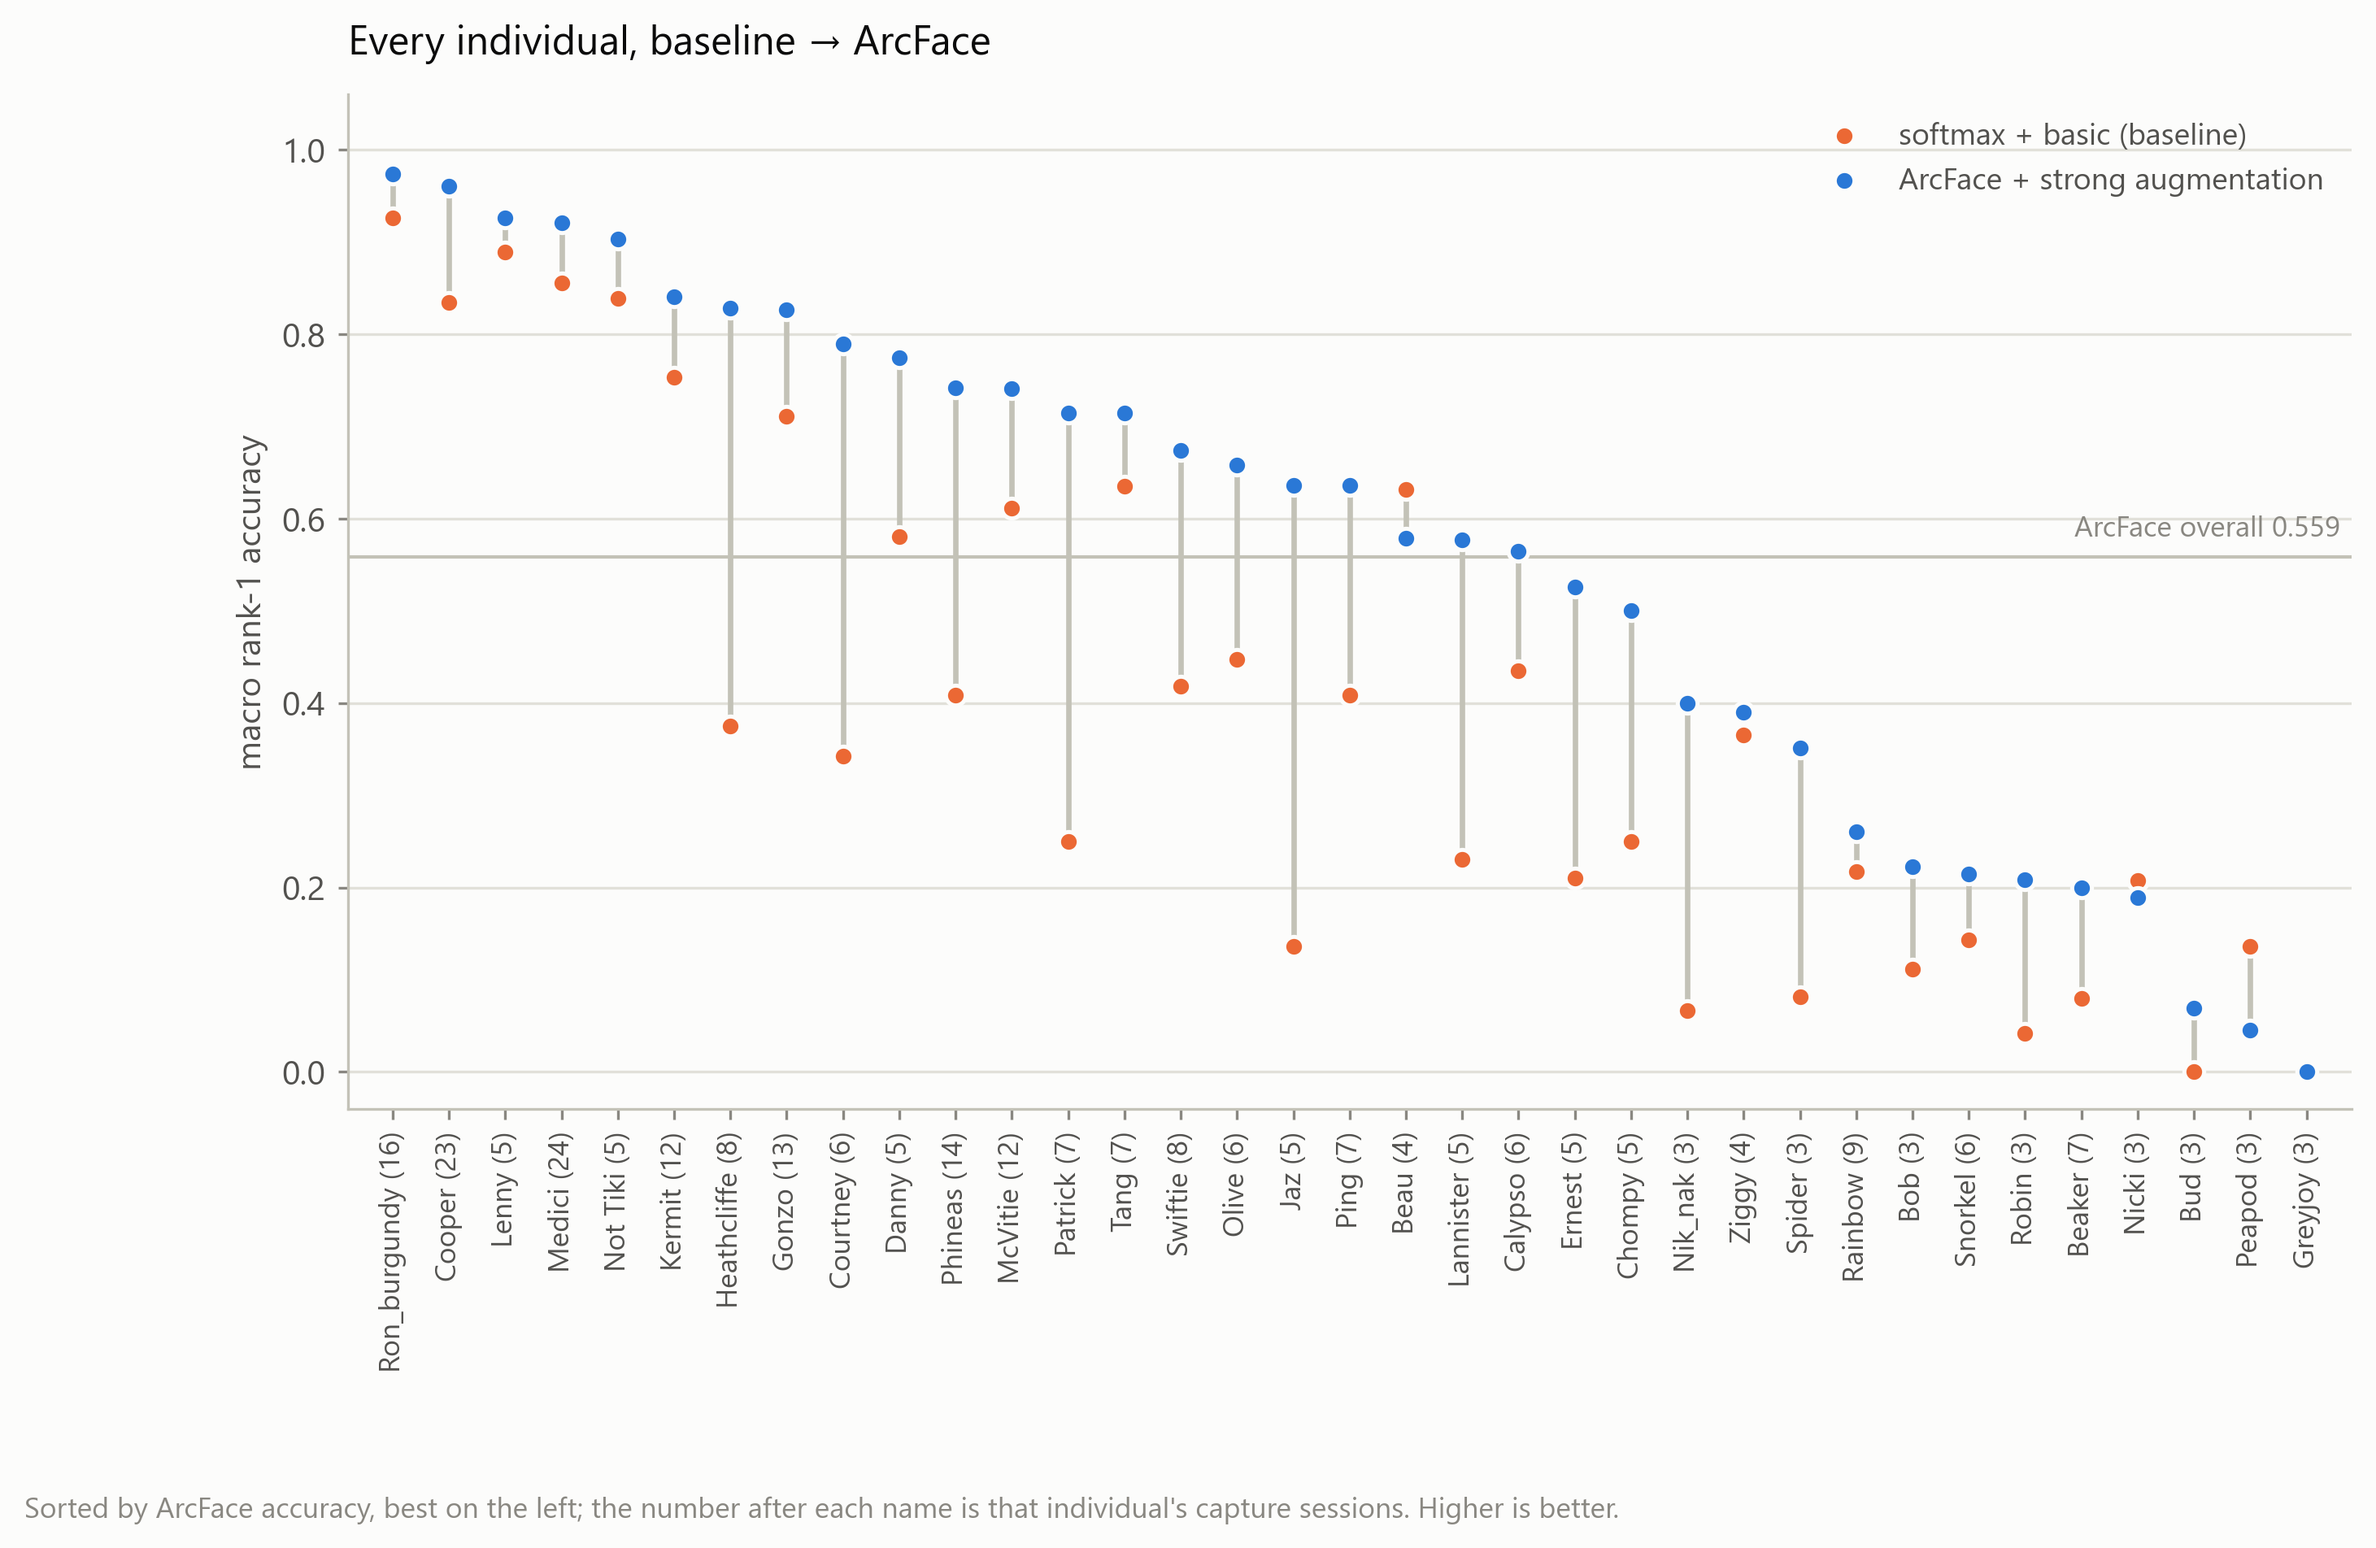
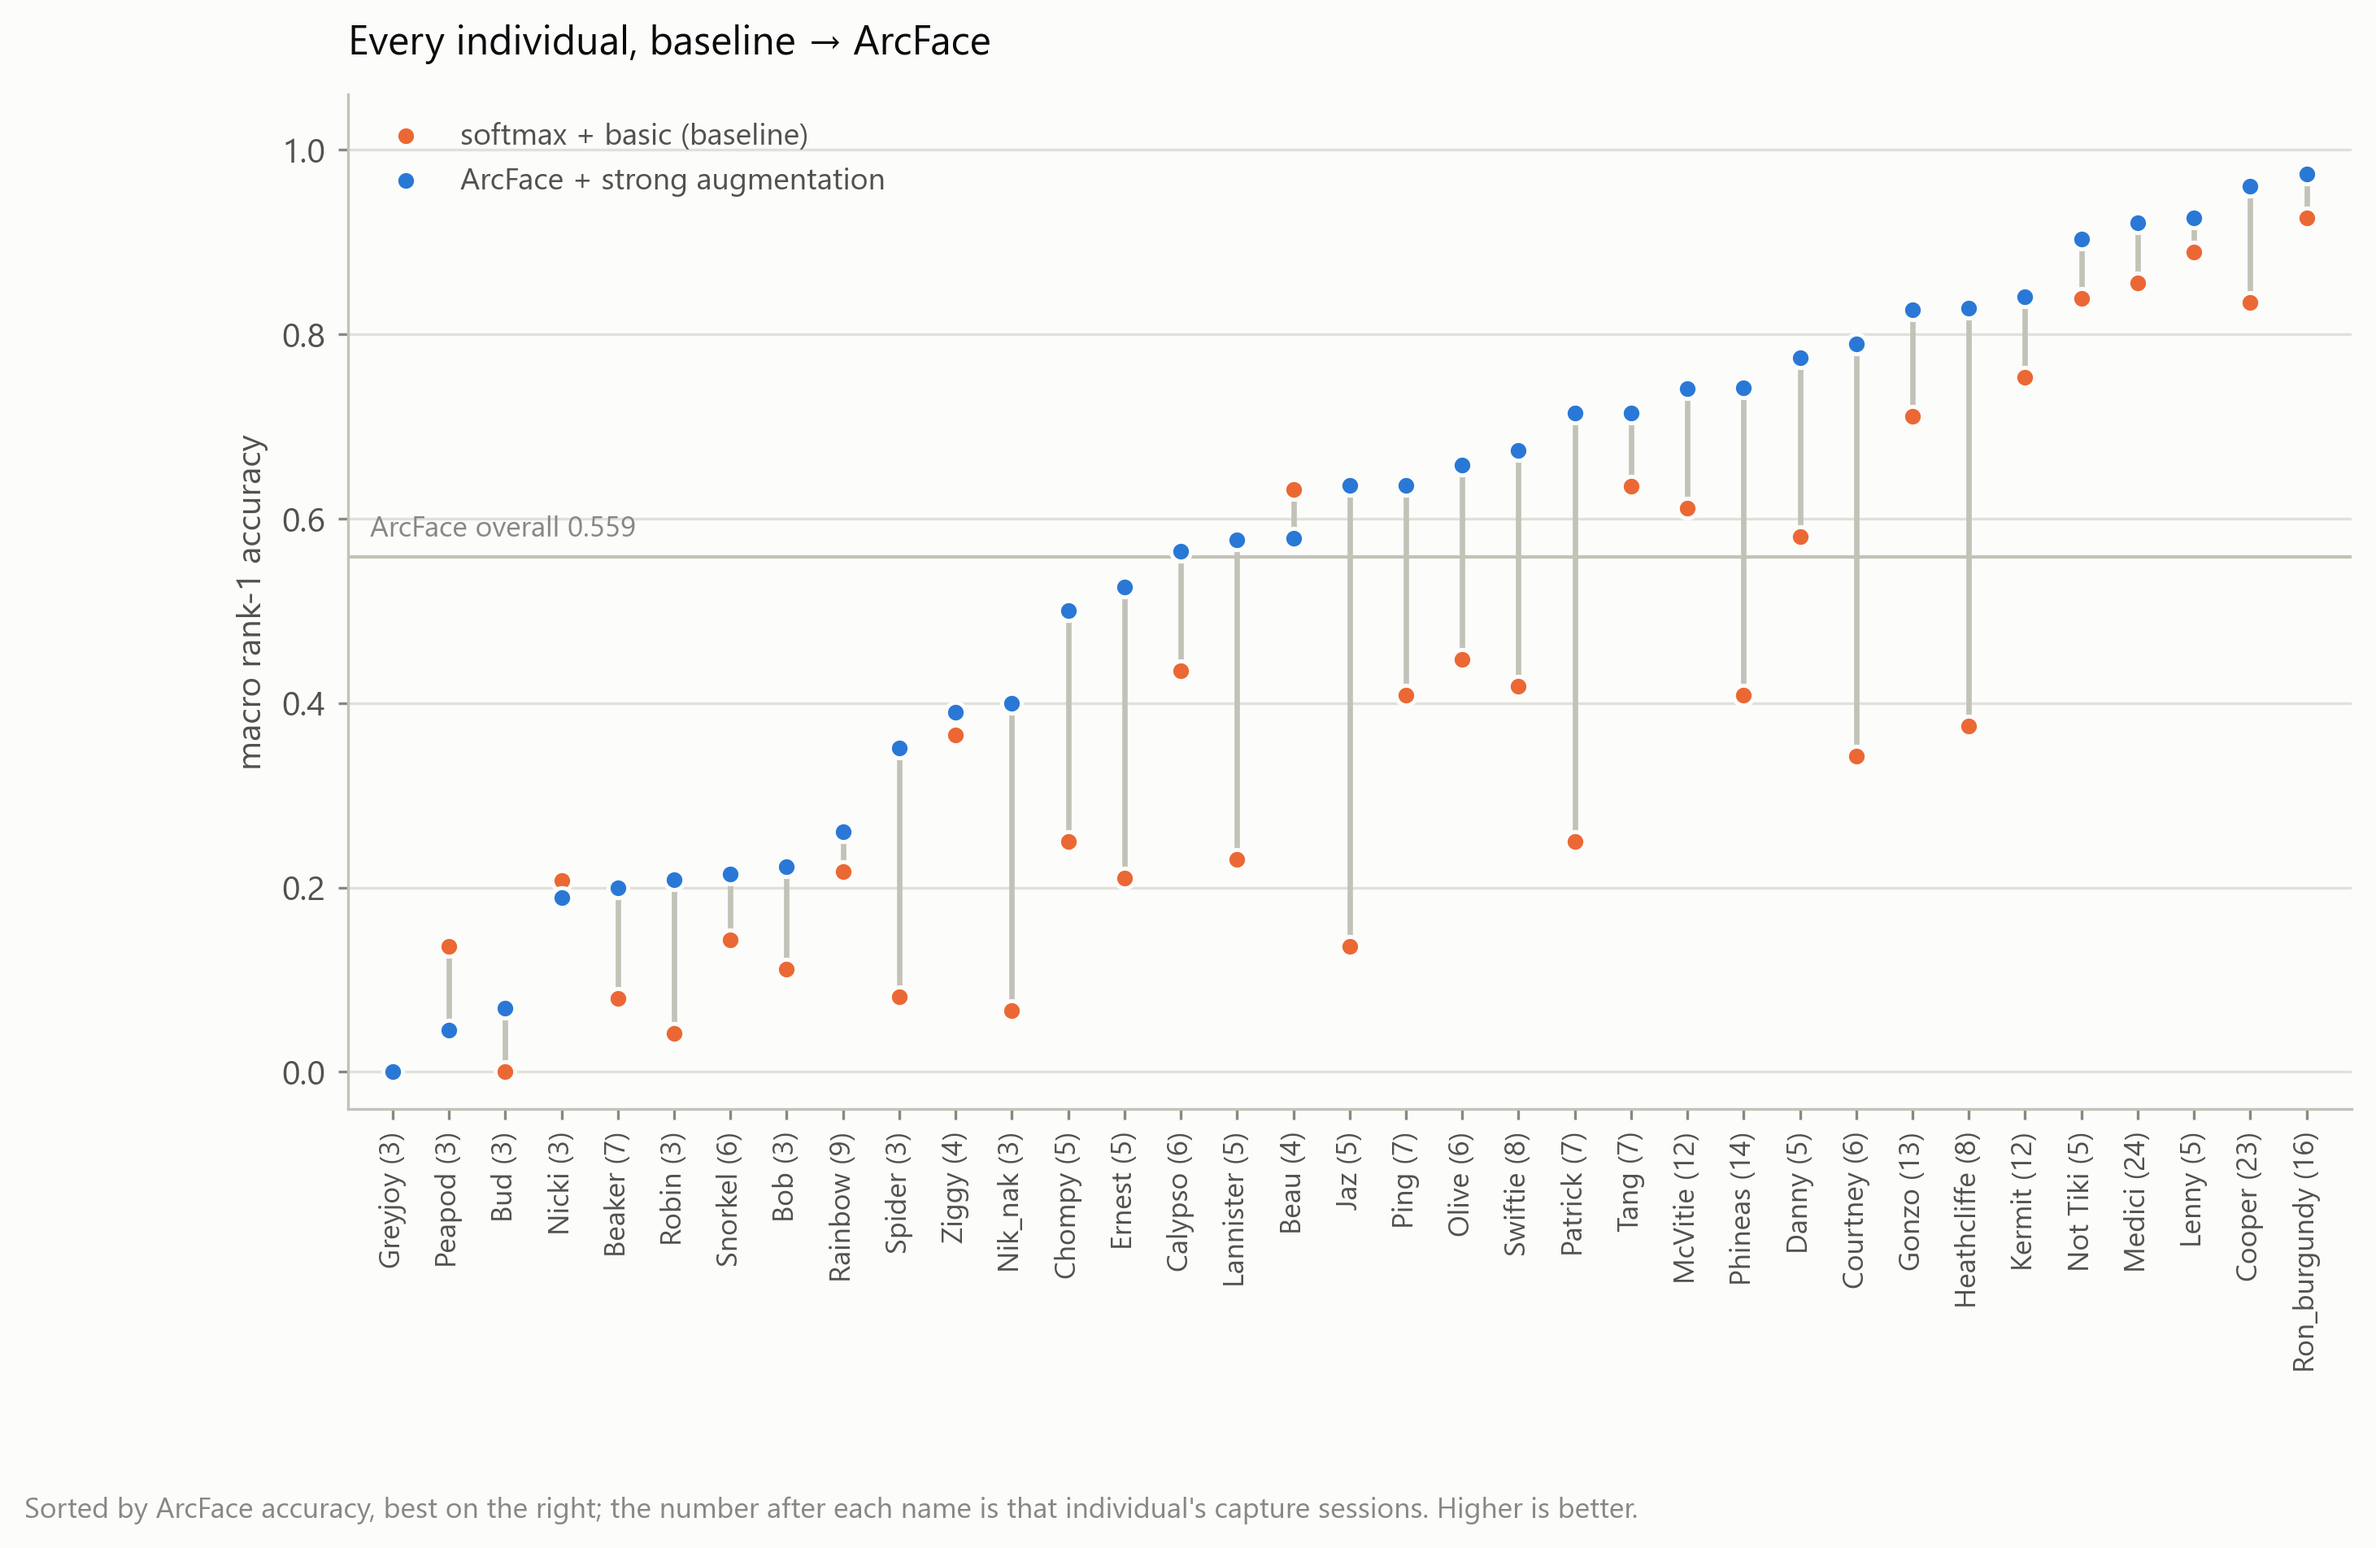
figures: sort figure 09 ascending so the colony reads as one rising curve
Low to high left-to-right. The legend and the overall-macro label move to the
top-left, which the ascending sort leaves empty.

diff --git a/analysis/plot_figures.py b/analysis/plot_figures.py
@@ -193,7 +193,7 @@ def fig_sessions():
 def fig_per_individual():
     # Individuals on x, accuracy on y: height reads directly as "doing better",
     # which a horizontal layout does not give you at a glance.
-    birds = sorted(ARC["per_class"], key=lambda b: -ARC["per_class"][b])
+    birds = sorted(ARC["per_class"], key=lambda b: ARC["per_class"][b])
     base = np.array([BASE["per_class"][b] for b in birds])
     arc = np.array([ARC["per_class"][b] for b in birds])
     x = np.arange(len(birds))
@@ -201,8 +201,10 @@ def fig_per_individual():
 
     fig, ax = plt.subplots(figsize=(10.6, 5.4))
     ax.axhline(overall, color=AXIS, lw=1, zorder=1)
-    ax.text(len(birds) - 0.4, overall + 0.015, f"ArcFace overall {overall:.3f}",
-            ha="right", va="bottom", fontsize=8.5, color=MUTED)
+    # ascending sort puts the empty region top-left, so both the reference-line
+    # label and the legend live there
+    ax.text(-0.4, overall + 0.015, f"ArcFace overall {overall:.3f}",
+            ha="left", va="bottom", fontsize=8.5, color=MUTED)
 
     ax.vlines(x, base, arc, color=AXIS, lw=1.6, zorder=2)
     ax.scatter(x, base, s=34, color=ORANGE, edgecolors=SURFACE, linewidths=1.2,
@@ -216,10 +218,10 @@ def fig_per_individual():
     ax.set_ylim(-0.04, 1.06)
     ax.set_ylabel("macro rank-1 accuracy")
     ax.set_title("Every individual, baseline → ArcFace", color=INK, pad=12, loc="left")
-    ax.legend(frameon=False, loc="upper right", fontsize=9, labelcolor=INK2)
+    ax.legend(frameon=False, loc="upper left", fontsize=9, labelcolor=INK2)
     tidy(ax, grid_axis="y")
     fig.text(0.0, -0.20,
-             "Sorted by ArcFace accuracy, best on the left; the number after each "
+             "Sorted by ArcFace accuracy, best on the right; the number after each "
              "name is that individual's capture sessions. Higher is better.",
              fontsize=8.5, color=MUTED)
     save(fig, "09_per_individual_change.png")
